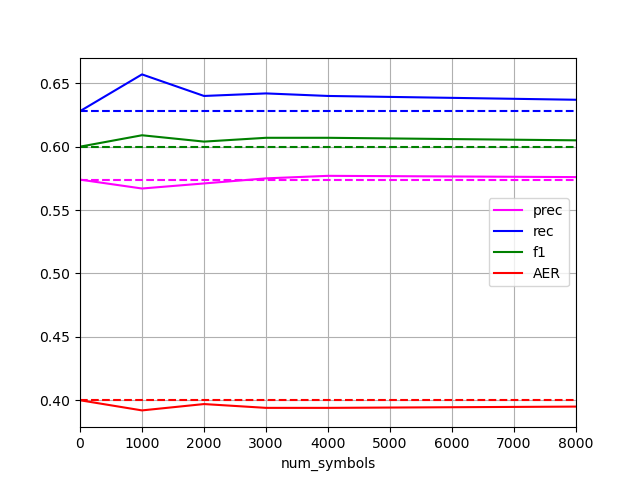
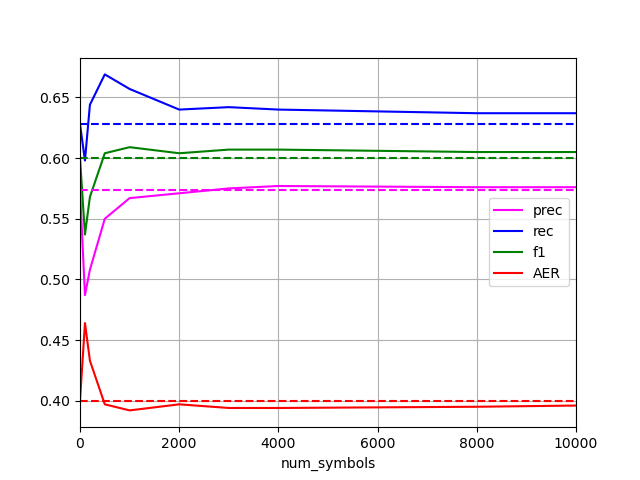
added more num_symbols

diff --git a/extract_alignments.py b/extract_alignments.py
@@ -30,7 +30,7 @@ if __name__ == "__main__":
 	eflomal_path = "/mounts/Users/student/masoud/tools/eflomal-master/"
 
 	currentdir = os.path.dirname(os.path.abspath(inspect.getfile(inspect.currentframe())))
-	datapath = os.path.join(currentdir, 'data')
+	datapath = os.path.join(currentdir, 'data/dropout')
 
 	# ubuntu
 	fastalign_path = os.path.join(currentdir, "tools/fast_align/build/fast_align")
@@ -49,16 +49,16 @@ if __name__ == "__main__":
 	args = parser.parse_args()
 	'''
 
-	all_symbols = [1000, 2000, 3000, 4000, 8000]
+	all_symbols = [100, 200, 500, 1000, 2000, 3000, 4000, 8000, 10000]
 	for num_symbols in all_symbols:
 
 		print(f"Alignments for {num_symbols} symbols")
 
 		#s = os.path.join(currentdir, "data/input/eng_with_10k.txt")
 		#t = os.path.join(currentdir, "data/input/deu_with_10k.txt")
-		s = os.path.join(currentdir, "data/eng_"+str(num_symbols)+".bpe")
-		t = os.path.join(currentdir, "data/deu_"+str(num_symbols)+".bpe")
-		o = os.path.join(currentdir, "data/fastalign/"+str(num_symbols))
+		s = os.path.join(datapath, "eng_"+str(num_symbols)+".bpe")
+		t = os.path.join(datapath, "deu_"+str(num_symbols)+".bpe")
+		o = os.path.join(datapath, "fastalign/"+str(num_symbols))
 		p = ""
 		m = "fast"
 

diff --git a/subword_word.py b/subword_word.py
@@ -77,13 +77,19 @@ if __name__ == "__main__":
     datapath = os.path.join(currentdir, 'data')
 
     os.chdir(datapath)
-    for alfile in glob.glob("fastalign/[0-9]*_deu.gdfa"):
-        num_symbols = alfile.split(".")[0].split("/")[1]
+    for alfile in glob.glob("fastalign/[0-9]*.gdfa"):
+        if '_deu' in alfile or '_word' in alfile:
+            continue
+        try:
+            num_symbols = alfile.split(".")[0].split("/")[1]
+        except:
+            num_symbols = alfile.split(".")[0].split("\\")[1]
+
         num_symbols = num_symbols.replace('_deu', '')
         bpes = {}
         for ifile in glob.glob("*_"+num_symbols+".bpe"):
             lang, _ = ifile.split('.')[0].split('_')
-            if lang == 'eng':
+            if lang == 'a':
                 argsinput = codecs.open(os.path.join(datapath, 'input/eng_with_10k.txt'), encoding='utf-8')
             else:
                 argsinput = codecs.open(ifile, encoding='utf-8')

diff --git a/minimal_apply_bpe.py b/minimal_apply_bpe.py
@@ -66,8 +66,8 @@ if __name__ == "__main__":
     currentdir = os.path.dirname(os.path.abspath(inspect.getfile(inspect.currentframe())))
     datapath = os.path.join(currentdir, 'data')
 
-    dropout = 0.1 #0
-    all_symbols = [1000, 2000, 3000, 4000, 8000]
+    dropout = 0.1 #0.1
+    all_symbols = [100, 200, 500, 1000, 2000, 3000, 4000, 8000, 10000]
 
     os.chdir(datapath)
     for num_symbols in all_symbols:

diff --git a/calc_align_score.py b/calc_align_score.py
@@ -99,7 +99,7 @@ if __name__ == "__main__":
 	'''
 
 	currentdir = os.path.dirname(os.path.abspath(inspect.getfile(inspect.currentframe())))
-	datapath = os.path.join(currentdir, 'data/dropout')
+	datapath = os.path.join(currentdir, 'data')
 
 	gold_path = os.path.join(currentdir, 'pbc_utils/data/eng_deu/eng_deu.gold')
 	probs, surs, surs_count = load_gold(gold_path)

diff --git a/README.md b/README.md
@@ -5,11 +5,8 @@ Master thesis repo
 ## tasks
 
 * [ ] simplify learn_bpe
-* [X] add the baseline with another linestyle ("--"), so we can see the difference
-  * [X] change matplotlib linestyle to see the baseline results
-  * [X] plot alias, axis
-* [ ] Use the normal text on one side and BPE on the other side. What's gonna happen? (Maybe BPE is only useful on the German side)
-* [ ] Try different num_symbol sizes, and maybe you see a difference. ex: 100, 200, 500, and 10k, 20k, 30k.
+* [ ] Use the normal text on one side and BPE on the other side. Maybe BPE is only useful on the German side
+* [X] Try different num_symbol sizes ex: 100, 200, 500, and 10k, 20k, 30k.
 * [ ] with dropout is getting worse, check bpe dropout paper again how they do it
 * [ ] do the same dropout test like 3,5,10 times, check scores, average scores. because dropout is different each time. maybe one sample is really good
 * [ ] what if we make a training data with 100k sentences by putting 10 samples together and then look at the quality of their aggregation. put samples one after another, get alignments, that way we get a bigger trainset.
